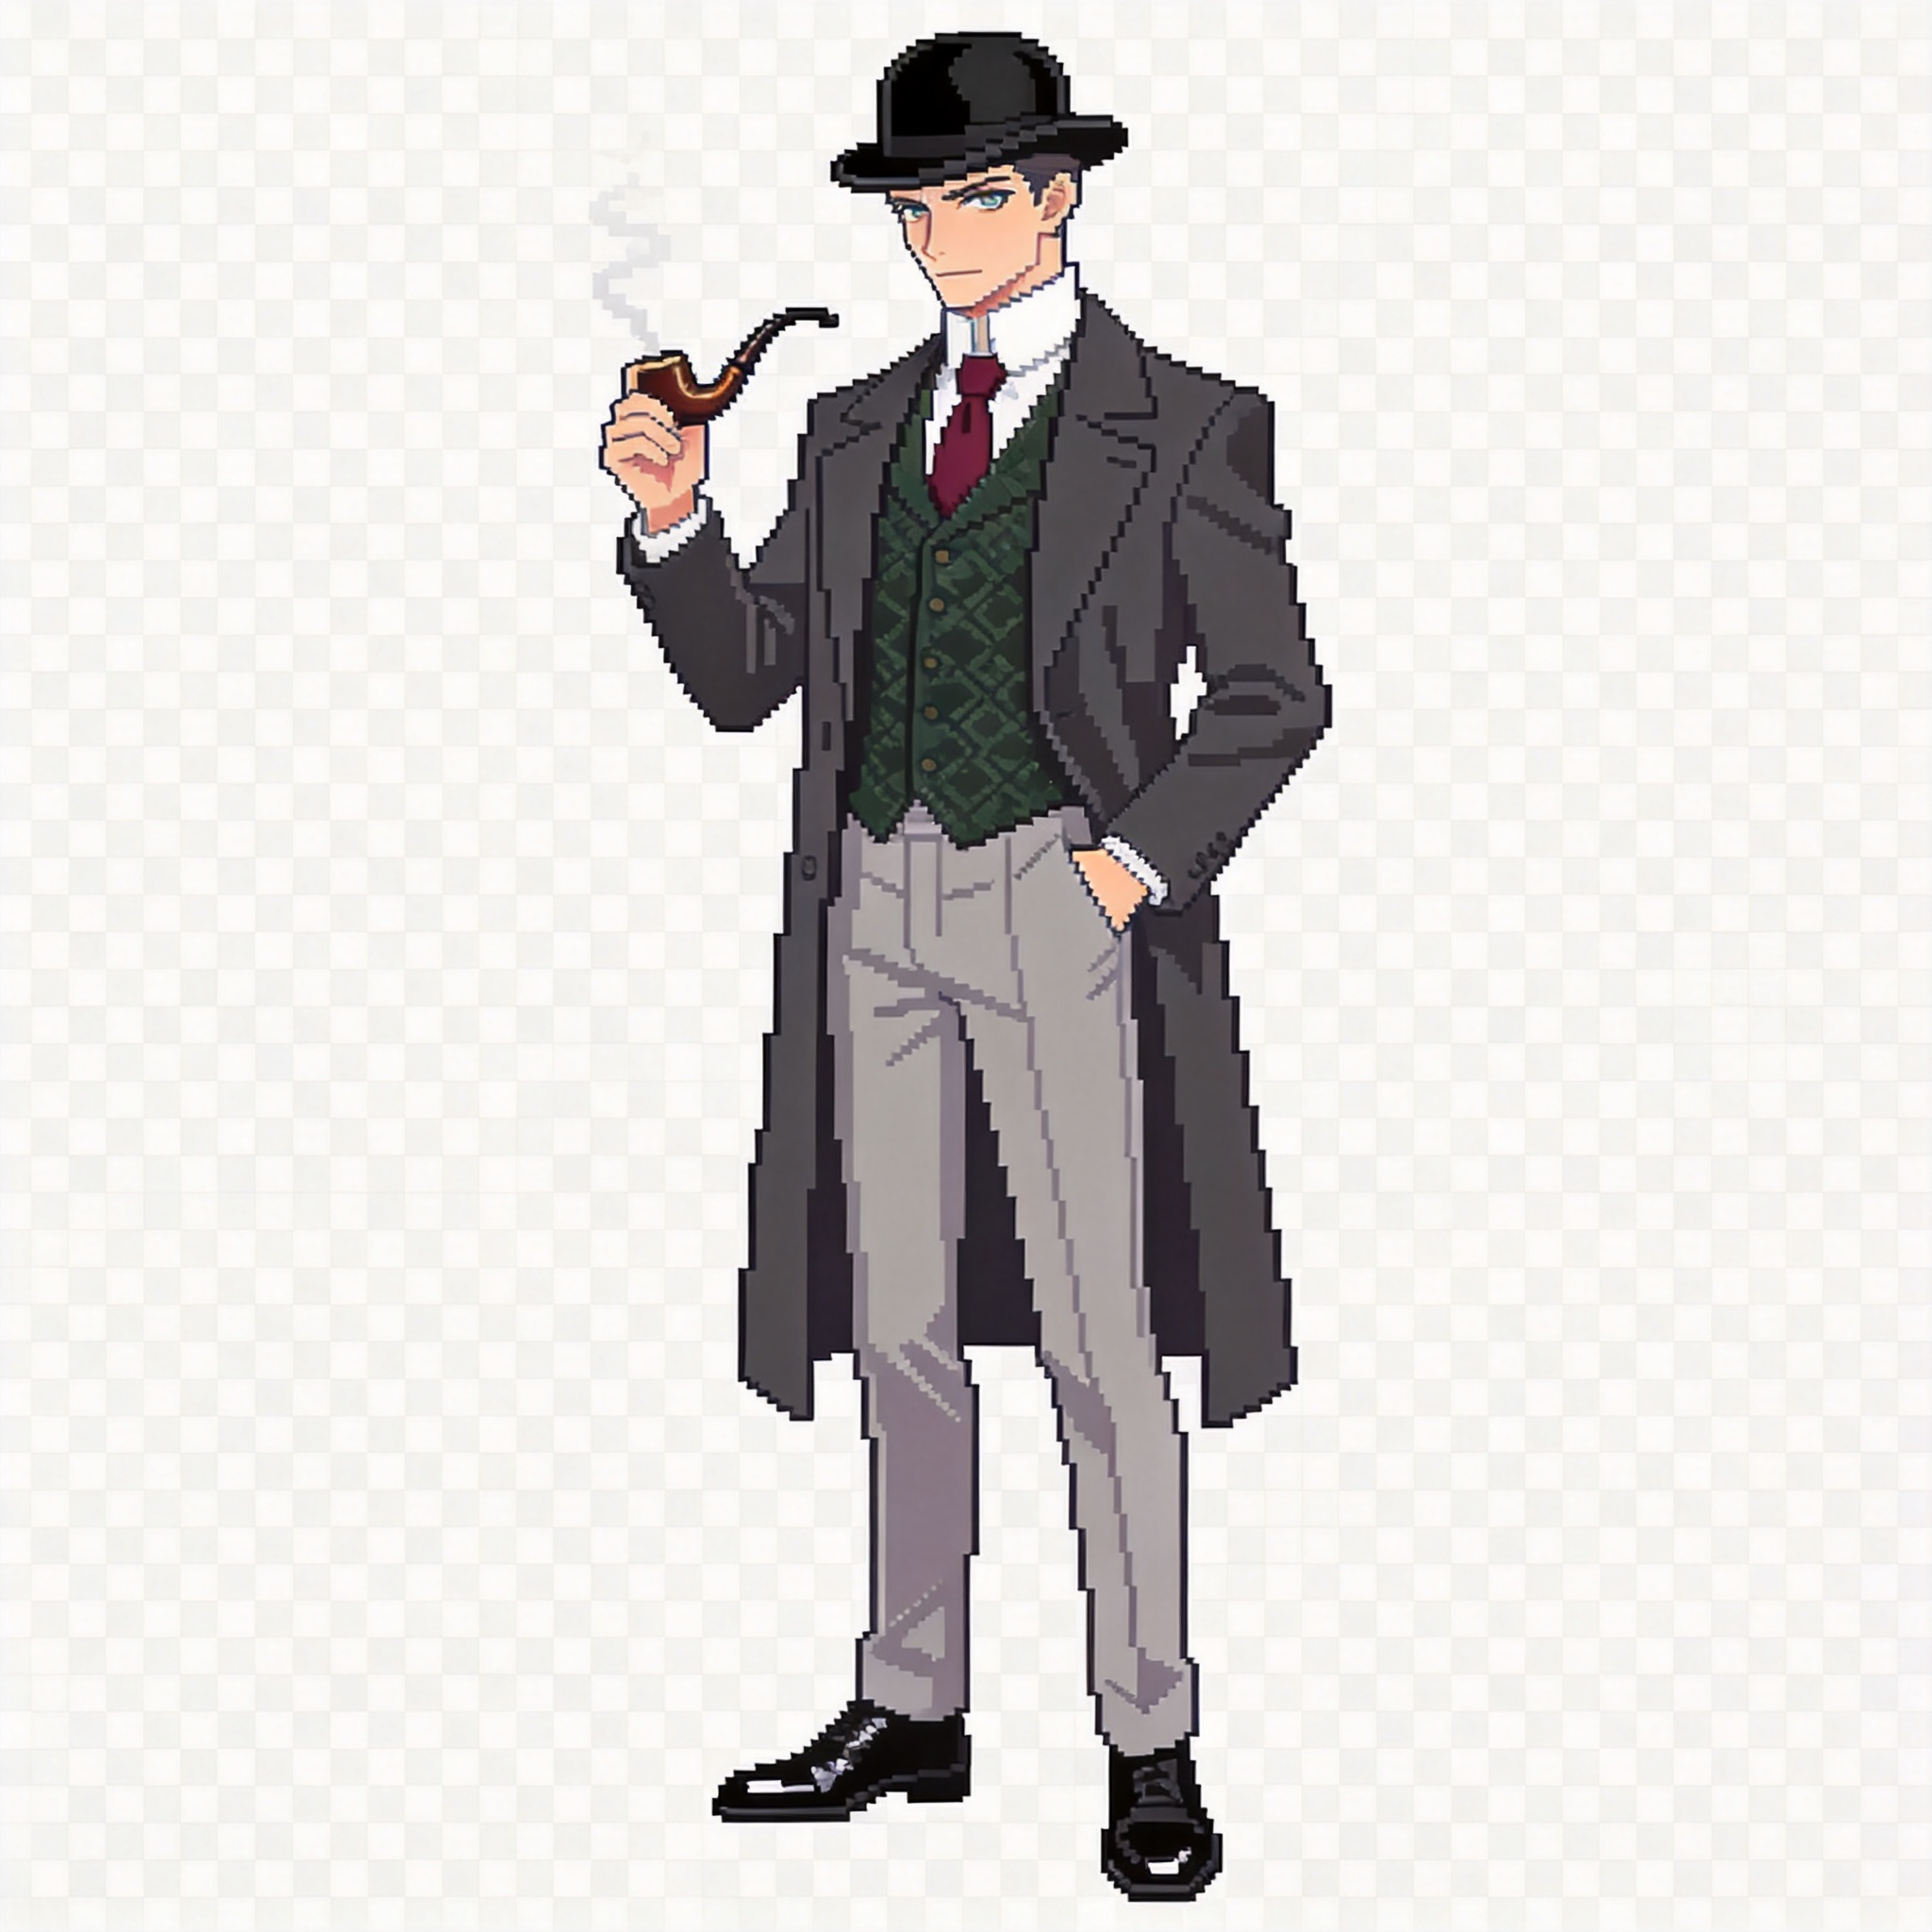
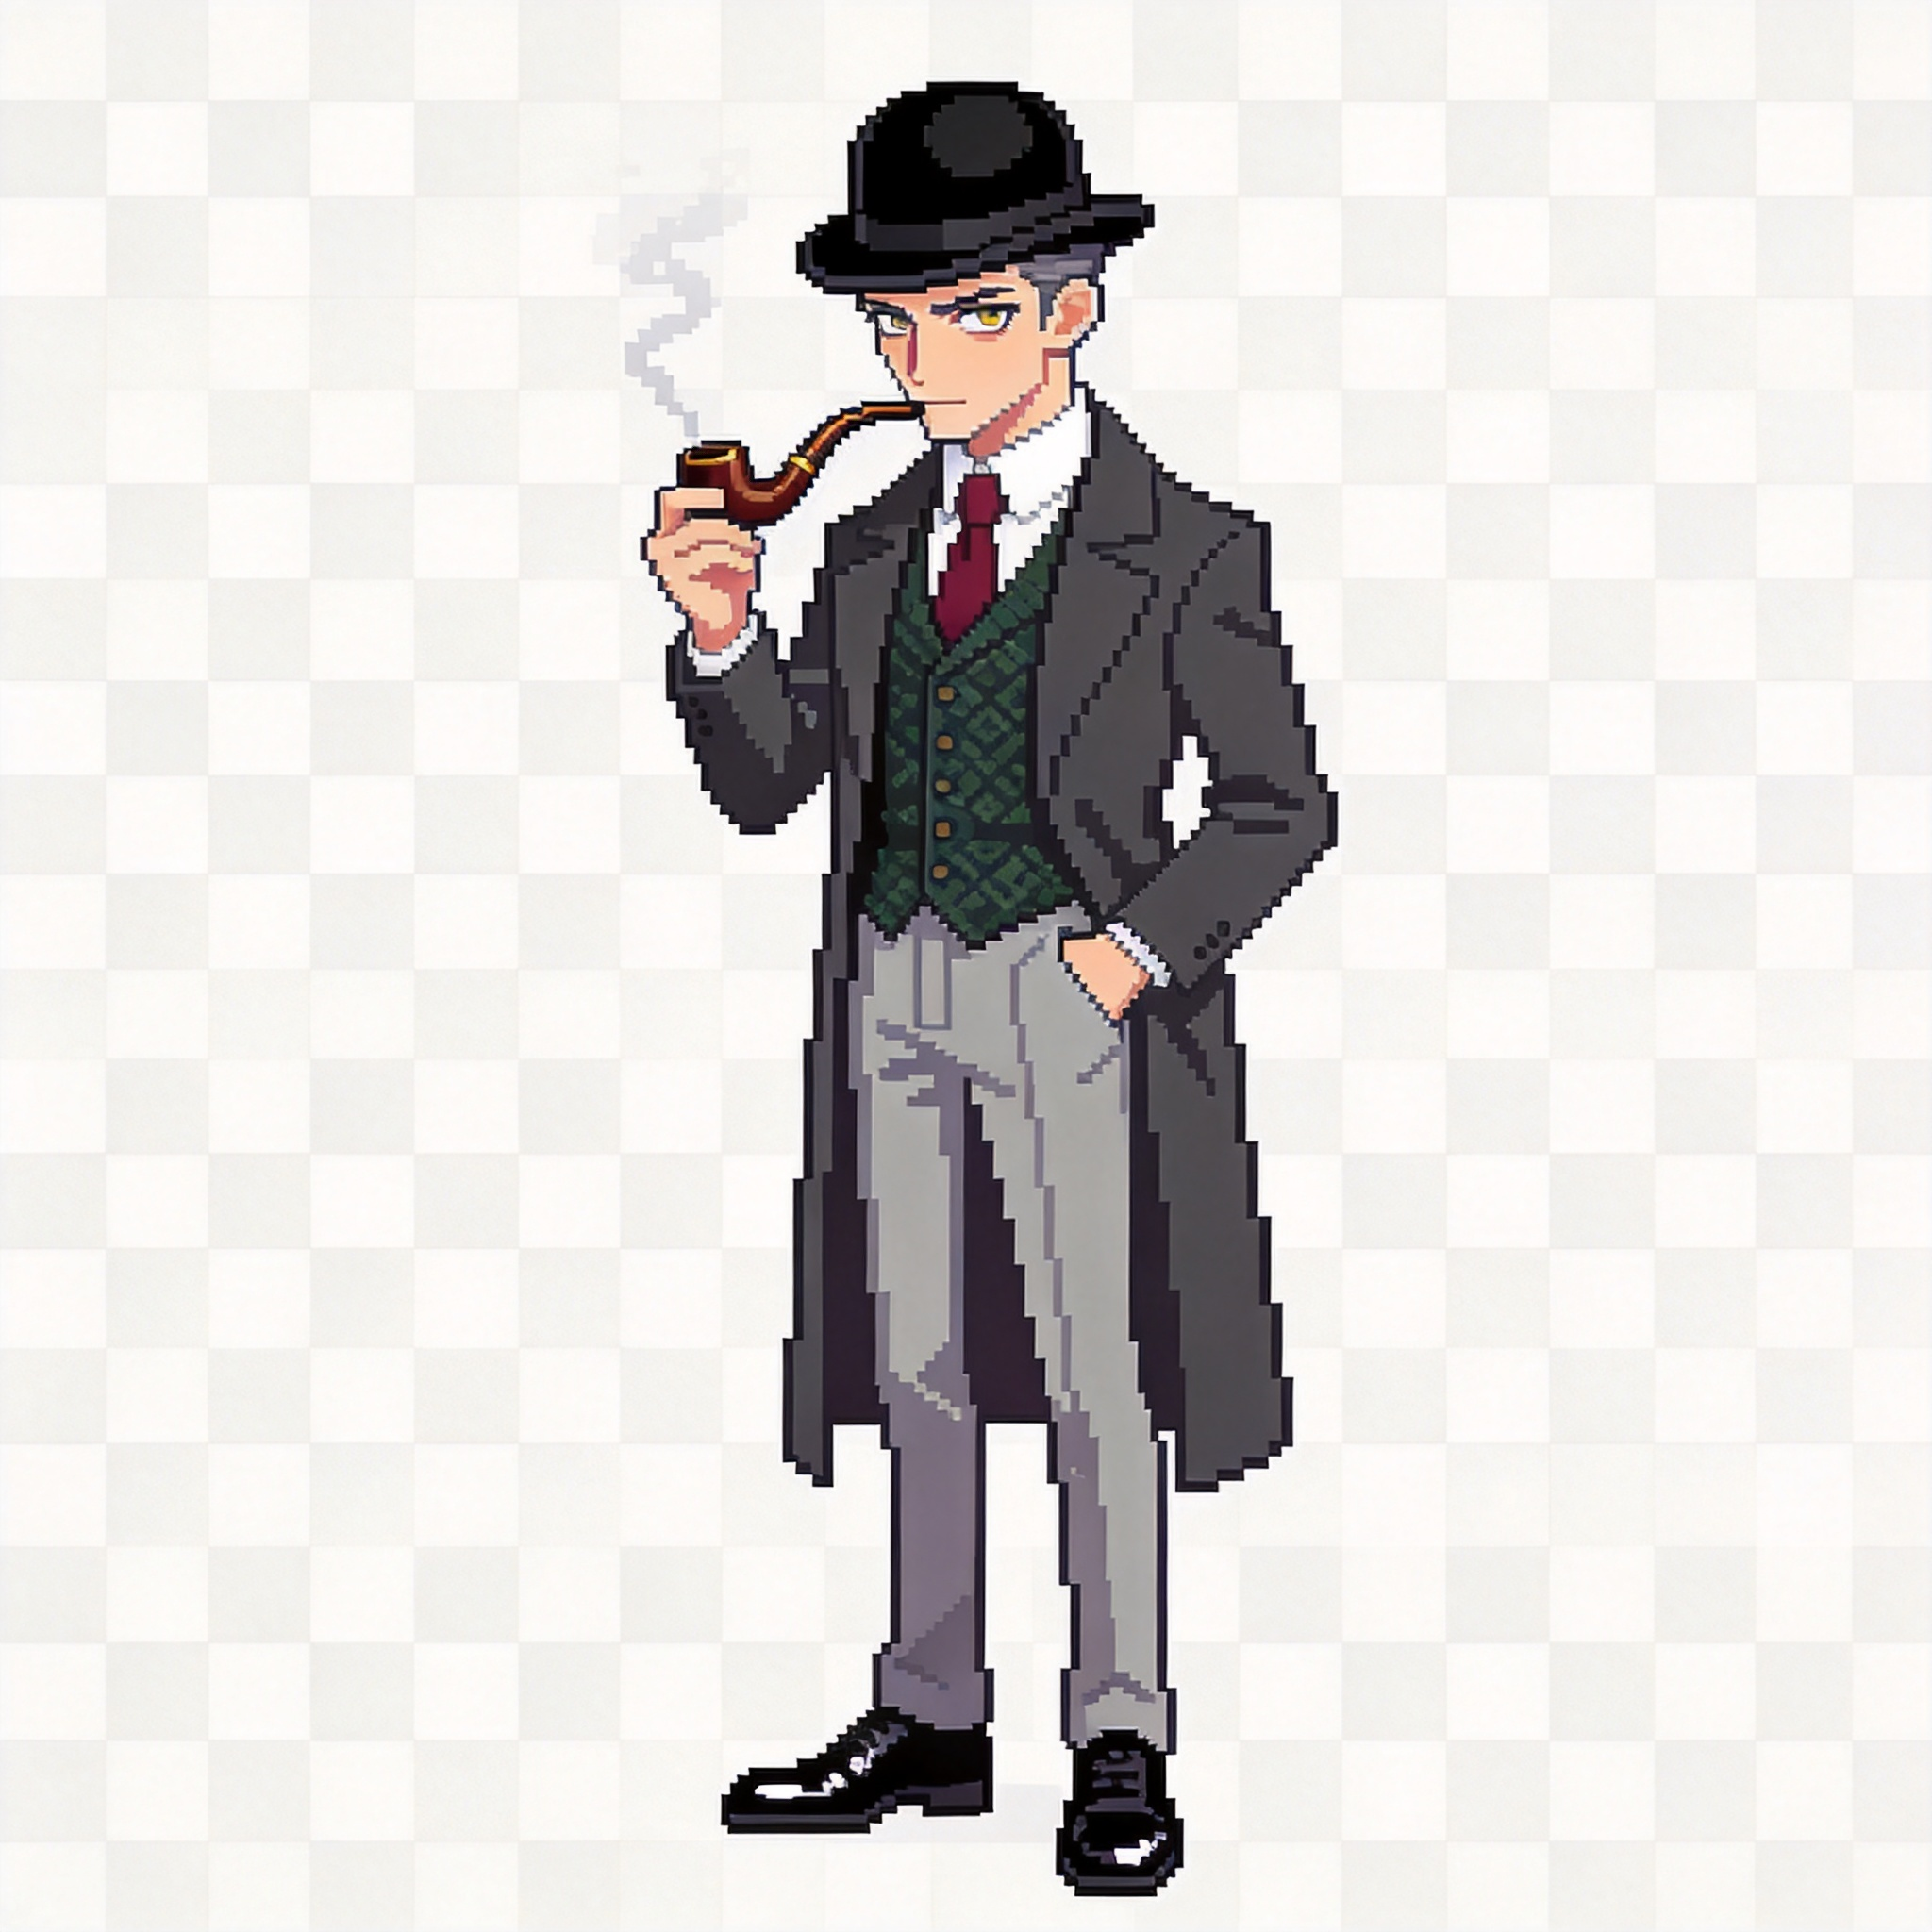
feat: 重新生成福尔摩斯站立姿态立绘（V2）
根据用户反馈修改：
- 五官参照 holmes_thinking.jpg
- 神态更睿智、神秘
- 修正烟斗位置：放嘴边而非手中

更新预览页面：
- 添加五官参考图对比
- 更新角色特征描述

Coze-Commit-Type: user
Coze-User-ID: 1065887343319849
Coze-Conversation-ID: 10830780

Changed region(s): [[0.3125, 0.0, 0.7188, 1.0]]

diff --git a/web_prototype/holmes_preview.html b/web_prototype/holmes_preview.html
@@ -98,6 +98,42 @@
             border-bottom: none;
         }
         .characteristics li::before {
+            content: "•";
+            color: #c9a961;
+            font-weight: bold;
+            display: inline-block;
+            width: 1em;
+            margin-left: -1em;
+        }
+        .comparison-grid {
+            display: grid;
+            grid-template-columns: repeat(auto-fit, minmax(250px, 1fr));
+            gap: 20px;
+            margin-top: 20px;
+        }
+        .comparison-card {
+            background: #1a0f08;
+            border: 1px solid #5a3a28;
+            border-radius: 8px;
+            padding: 15px;
+            text-align: center;
+        }
+        .comparison-card img {
+            max-width: 100%;
+            height: auto;
+            border-radius: 4px;
+            box-shadow: 0 4px 16px rgba(0,0,0,0.3);
+        }
+        .comparison-card h4 {
+            color: #c9a961;
+            margin-top: 10px;
+            font-size: 1rem;
+        }
+        .comparison-card p {
+            color: #a89070;
+            font-size: 0.85rem;
+            margin-top: 5px;
+        }
             content: "• ";
             color: #c9a961;
         }
@@ -143,12 +179,12 @@
         <p class="subtitle">SHERLOCK HOLMES - Character Design Preview</p>
         
         <div class="preview-section">
-            <h2 class="preview-title">新生成立绘</h2>
+            <h2 class="preview-title">新生成立绘（V2）</h2>
             <div class="image-grid">
                 <div class="image-card">
                     <img src="holmes_standing_preview.jpg" alt="福尔摩斯站立姿态">
                     <h3>站立姿态</h3>
-                    <p>左手插马甲口袋，右手持烟斗，自信从容</p>
+                    <p>右手持烟斗放嘴边，左手插马甲口袋，睿智神秘</p>
                 </div>
             </div>
             
@@ -161,9 +197,17 @@
                     <li>白色硬领衬衫 + 酒红领带</li>
                     <li>浅灰长裤（Light Gray Trousers）</li>
                     <li>黑色亮面皮鞋（Black Polished Leather Shoes）</li>
-                    <li>右手持弯曲烟斗（Curved Smoking Pipe）</li>
-                    <li>锐利眼神，挺拔站姿</li>
+                    <li>右手持烟斗放嘴边（准备吸烟姿势）</li>
+                    <li>锐利眼神，睿智神秘的神态</li>
                 </ul>
+            </div>
+            
+            <div class="comparison-grid">
+                <div class="comparison-card">
+                    <img src="holmes_thinking_ref.jpg" alt="五官参考">
+                    <h4>五官参考</h4>
+                    <p>参照此图的面部特征</p>
+                </div>
             </div>
         </div>
         